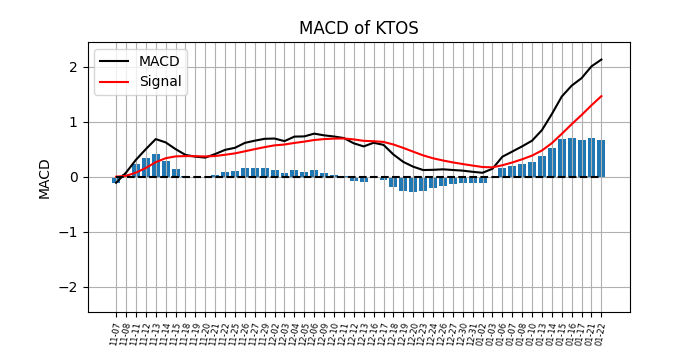
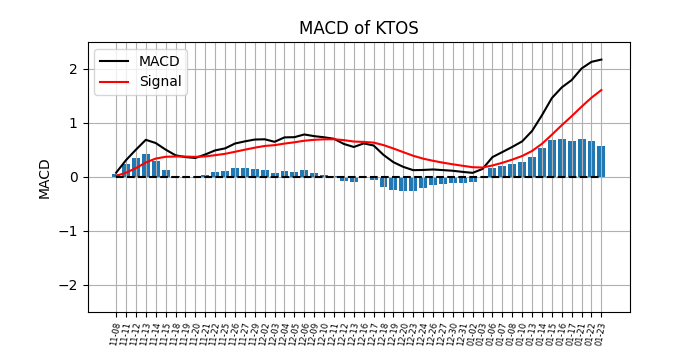
commit for 2025-01-23

diff --git a/_posts/2025-01-23-GH.md b/_posts/2025-01-23-GH.md
@@ -1,9 +1,9 @@
 ---
 layout: post
-title: "KTOS"
-company: Kratos Defense & Security Solutions Inc.
-date: 2025-01-22 -0500
-categories: defense
+title: GH
+company: Guardiant Health
+date: 2025-01-23 -0500
+categories: biotech
 ---
 
 ### Most up to date figures for {{page.company}} ({{ page.title }}).
@@ -16,8 +16,5 @@ categories: defense
 
 Buy/short:
 
-
 ### Thoughts
-(1/14/25) - **Short**. RSI indicates definitely overbought. But may have to wait for one or two days for correct timing.
-
-(1/21/25) - **Short**. RSI still overbought. Waiting for MACD or MA's to lose momentum to short.
+(1/21/25) - **Short**. Today there was a huge spike, not just in price but volume as well. RSi went into overbought region and MACD gained momentum. 

diff --git a/_posts/2025-01-23-KTOS.md b/_posts/2025-01-23-KTOS.md
@@ -1,9 +1,9 @@
 ---
 layout: post
-title: GH
-company: Guardiant Health
-date: 2025-01-22 -0500
-categories: biotech
+title: "KTOS"
+company: Kratos Defense & Security Solutions Inc.
+date: 2025-01-23 -0500
+categories: defense
 ---
 
 ### Most up to date figures for {{page.company}} ({{ page.title }}).
@@ -16,5 +16,8 @@ categories: biotech
 
 Buy/short:
 
+
 ### Thoughts
-(1/21/25) - **Short**. Today there was a huge spike, not just in price but volume as well. RSi went into overbought region and MACD gained momentum. 
+(1/14/25) - **Short**. RSI indicates definitely overbought. But may have to wait for one or two days for correct timing.
+
+(1/21/25) - **Short**. RSI still overbought. Waiting for MACD or MA's to lose momentum to short.

diff --git a/_posts/2025-01-23-LYFT.md b/_posts/2025-01-23-LYFT.md
@@ -2,7 +2,7 @@
 layout: post
 title: "LYFT"
 company: Lyft Inc.
-date: 2025-01-22 -0500
+date: 2025-01-23 -0500
 categories: consumer
 ---
 
